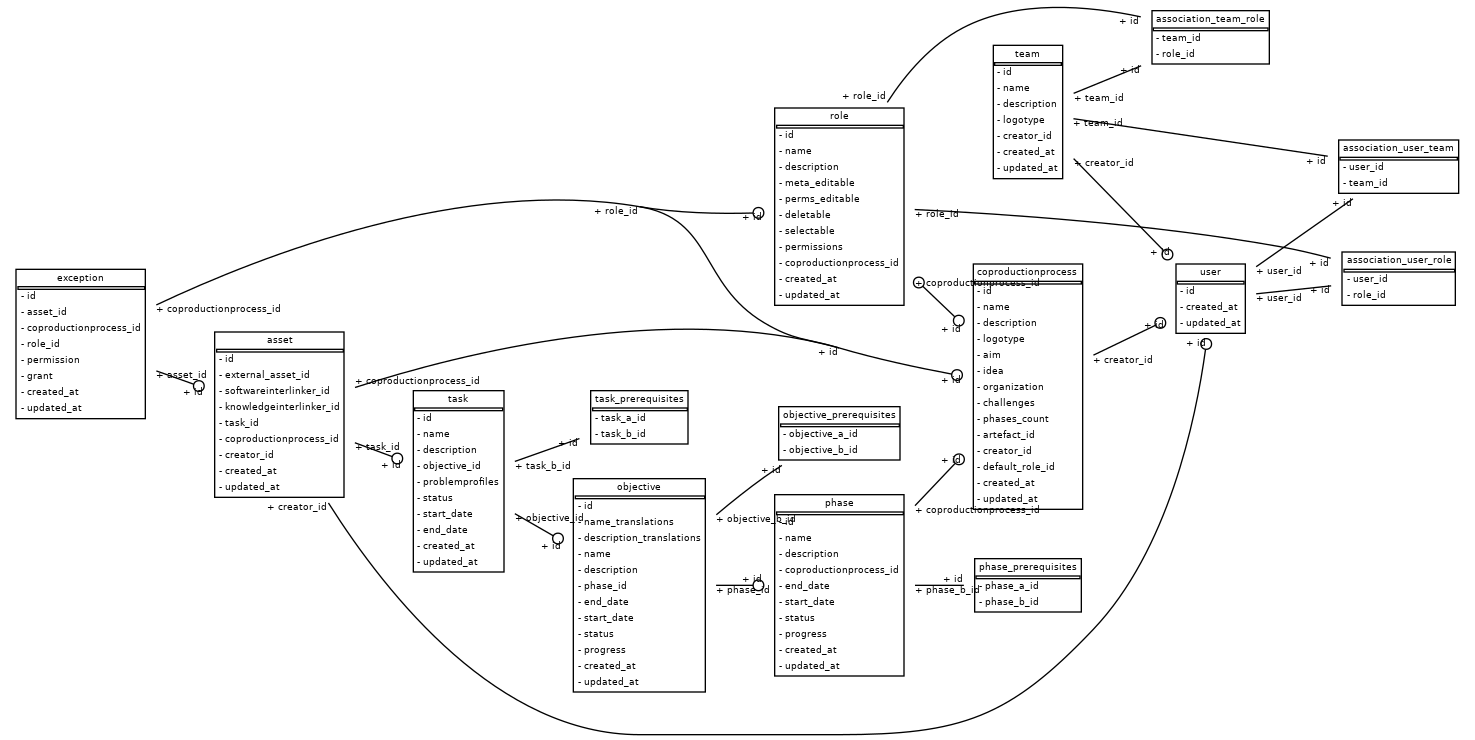
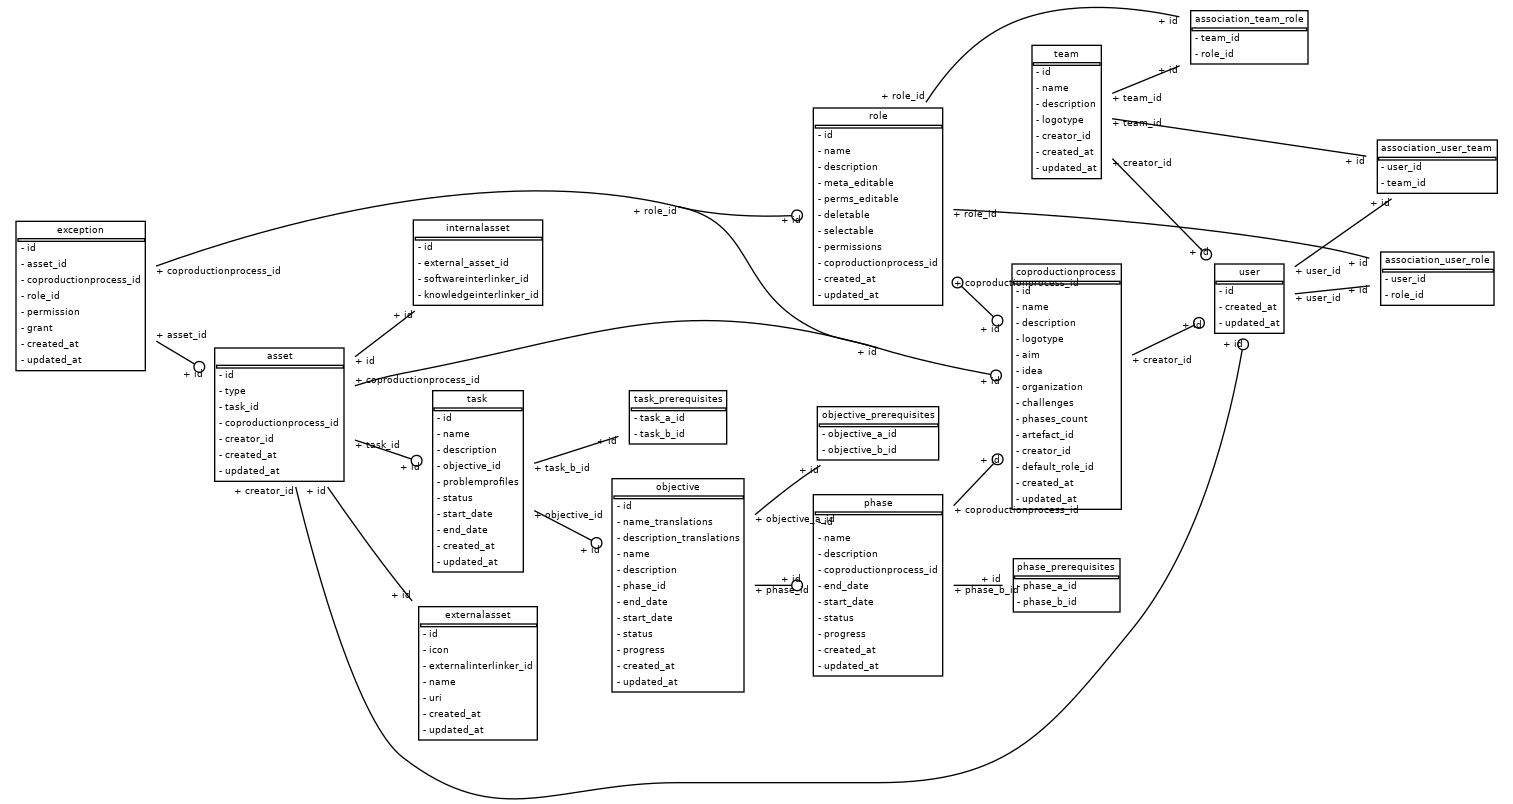
Asset polimorphic

diff --git a/coproduction/app/assets/schemas.py b/coproduction/app/assets/schemas.py
@@ -1,24 +1,52 @@
 import uuid
 from datetime import datetime
-from typing import List, Optional
+from typing import Dict, List, Literal, Optional, Union
+
+from pydantic import BaseModel, Field, validator
+from typing_extensions import Annotated
 
 from app.general.utils.AllOptional import AllOptional
-from pydantic import BaseModel
 
-class AssetBase(BaseModel):
+
+class BaseAssetBase(BaseModel):
     task_id: Optional[uuid.UUID]
+    coproductionprocess_id: Optional[uuid.UUID]
+
+class BaseAssetCreate(BaseAssetBase):
+    pass
+
+class BaseAssetPatch(BaseAssetCreate, metaclass=AllOptional):
+    pass
+
+
+class BaseAsset(BaseAssetBase):
+    id: uuid.UUID
+    created_at: datetime
+    updated_at: Optional[datetime]
+    
+    class Config:
+        orm_mode = True
+
+
+class BaseAssetOut(BaseAssetBase):
+    pass
+
+# Internal asset
+
+class InternalAssetBase(BaseAssetBase):
+    type: Literal["internalasset"] = "internalasset"
     softwareinterlinker_id: uuid.UUID
     knowledgeinterlinker_id: Optional[uuid.UUID]
     external_asset_id: str
     
-class AssetCreate(AssetBase):
+class InternalAssetCreate(BaseAssetCreate, InternalAssetBase):
     pass
 
-class AssetPatch(AssetBase, metaclass=AllOptional):
+class InternalAssetPatch(BaseAssetPatch, InternalAssetCreate, metaclass=AllOptional):
     pass
 
 
-class Asset(AssetBase):
+class InternalAsset(InternalAssetBase):
     id: uuid.UUID
     created_at: datetime
     updated_at: Optional[datetime]
@@ -29,5 +57,52 @@ class Asset(AssetBase):
         orm_mode = True
 
 
-class AssetOut(Asset):
+class InternalAssetOut(BaseAssetOut, InternalAsset):
     link: str
+
+
+# External asset
+
+class ExternalAssetBase(BaseAssetBase):
+    type: Literal["externalasset"] = "externalasset"
+    externalinterlinker_id: uuid.UUID
+    name: str
+    uri: str
+    
+class ExternalAssetCreate(BaseAssetCreate, ExternalAssetBase):
+    pass
+
+class ExternalAssetPatch(BaseAssetPatch, ExternalAssetCreate, metaclass=AllOptional):
+    pass
+
+
+class ExternalAsset(ExternalAssetBase):
+    id: uuid.UUID
+    created_at: datetime
+    updated_at: Optional[datetime]
+    
+    class Config:
+        orm_mode = True
+
+
+class ExternalAssetOut(BaseAssetOut, ExternalAsset):
+    pass
+
+
+
+AssetCreate = Annotated[
+    Union[ExternalAssetCreate, InternalAssetCreate],
+    Field(discriminator="type"),
+]
+
+AssetPatch = Annotated[
+    Union[ExternalAssetPatch, InternalAssetPatch],
+    Field(discriminator="type"),
+]
+
+
+class AssetOut(BaseModel):
+    __root__: Annotated[
+        Union[ExternalAssetOut, InternalAssetOut],
+        Field(discriminator="type"),
+    ]

diff --git a/coproduction/app/assets/crud.py b/coproduction/app/assets/crud.py
@@ -1,12 +1,13 @@
 from sqlalchemy.orm import Session
 from typing import List
-from app.models import Asset
-from app.schemas import AssetCreate, AssetPatch
+from app.models import Asset, InternalAsset, ExternalAsset
+from app.schemas import AssetCreate, AssetPatch, ExternalAssetCreate, InternalAssetCreate
 from app.general.utils.CRUDBase import CRUDBase
 from app import models
 import uuid
 from fastapi_pagination.ext.sqlalchemy import paginate
 from app.messages import log
+from fastapi.encoders import jsonable_encoder
 
 class CRUDAsset(CRUDBase[Asset, AssetCreate, AssetPatch]):
 
@@ -28,21 +29,25 @@ class CRUDAsset(CRUDBase[Asset, AssetCreate, AssetPatch]):
         return paginate(db.query(Asset).filter(*queries))
     
     async def create(self, db: Session, asset: AssetCreate, coproductionprocess_id: uuid.UUID, creator: models.User) -> Asset:
-        db_obj = Asset(
-            coproductionprocess_id=coproductionprocess_id,
-            task_id=asset.task_id,
-            knowledgeinterlinker_id=asset.knowledgeinterlinker_id,
-            softwareinterlinker_id=asset.softwareinterlinker_id,
-            external_asset_id=asset.external_asset_id,
-            creator=creator
-        )
+        data = jsonable_encoder(asset)
+        if type(asset) == ExternalAssetCreate:
+            print("IS EXTERNAL")
+            data["type"] = "externalasset"
+            db_obj = ExternalAsset(**data)
+
+        if type(asset) == InternalAssetCreate:
+            print("IS INTERNAL")
+            data["type"] = "internalasset"
+            db_obj = InternalAsset(**data)
+
         db.add(db_obj)
         db.commit()
         await log({
             "model": self.modelName,
             "action": "CREATE",
+            "id": db_obj.id,
             "coproductionprocess_id": coproductionprocess_id,
-            "task_id": db_obj.id
+            "task_id": db_obj.task.id
         })
         db.refresh(db_obj)
         db_obj.set_links()

diff --git a/coproduction/app/assets/models.py b/coproduction/app/assets/models.py
@@ -23,10 +23,8 @@ from app.general.db.base_class import Base as BaseModel
 
 class Asset(BaseModel):
     id = Column(UUID(as_uuid=True), primary_key=True, default=uuid.uuid4)
-    external_asset_id = Column(String)
-    softwareinterlinker_id = Column(UUID(as_uuid=True))
-    # save from which knowledge interlinker has been cloned, if so
-    knowledgeinterlinker_id = Column(UUID(as_uuid=True), nullable=True)
+    # discriminator
+    type = Column(String)
 
     task_id = Column(
         UUID(as_uuid=True), ForeignKey("task.id", ondelete='CASCADE')
@@ -45,6 +43,27 @@ class Asset(BaseModel):
         String, ForeignKey("user.id")
     )
     creator = orm.relationship("User", back_populates="created_assets")
+
+    __mapper_args__ = {
+        "polymorphic_identity": "asset",
+        "polymorphic_on": type,
+    }
+
+class InternalAsset(Asset):
+    id = Column(
+        UUID(as_uuid=True),
+        ForeignKey("asset.id"),
+        primary_key=True,
+        default=uuid.uuid4,
+    )
+    external_asset_id = Column(String)
+    softwareinterlinker_id = Column(UUID(as_uuid=True))
+    # save from which knowledge interlinker has been cloned, if so
+    knowledgeinterlinker_id = Column(UUID(as_uuid=True), nullable=True)
+
+    __mapper_args__ = {
+        "polymorphic_identity": "internalasset",
+    }
 
     def set_links(self):
         response = requests.get(
@@ -91,3 +110,20 @@ class Asset(BaseModel):
     @property
     def internal_link(self):
         return self.int_link
+
+class ExternalAsset(BaseModel):
+    id = Column(
+        UUID(as_uuid=True),
+        ForeignKey("asset.id"),
+        primary_key=True,
+        default=uuid.uuid4,
+    )
+    name = Column(String)
+    icon = Column(String)
+    externalinterlinker_id = Column(UUID(as_uuid=True))
+    name = Column(String)
+    uri = Column(String)
+    
+    __mapper_args__ = {
+        "polymorphic_identity": "externalasset",
+    }

diff --git a/coproduction/app/api/api_v1/assets.py b/coproduction/app/api/api_v1/assets.py
@@ -51,13 +51,16 @@ async def create_asset(
 
     # check that interlinker in catalogue
     try:
-        response = requests.get(f"http://{settings.CATALOGUE_SERVICE}/api/v1/interlinkers/{asset_in.softwareinterlinker_id}", headers={
+        interlinker_id = asset_in.softwareinterlinker_id or asset_in.externalinterlinker_id
+        print("CREATING WITH ", interlinker_id)
+        response = requests.get(f"http://{settings.CATALOGUE_SERVICE}/api/v1/interlinkers/{interlinker_id}", headers={
             "X-API-Key": "secret"
         })
+        print("CREATING WITH ", response.json())
         assert response.status_code == 200
 
     except:
-        raise HTTPException(status_code=400, detail="Interlinker not active")
+        raise HTTPException(status_code=400, detail="Interlinker not found")
 
     asset = await crud.asset.create(
         db=db, asset=asset_in, coproductionprocess_id=task.objective.phase.coproductionprocess_id, creator=current_user)
@@ -143,8 +146,8 @@ async def read_asset(
         return asset
     raise HTTPException(status_code=404, detail="Asset not found")
 
-@router.get("/external/{id}")
-async def read_external_asset(
+@router.get("/internal/{id}")
+async def read_internal_asset(
     *,
     db: Session = Depends(deps.get_db),
     id: uuid.UUID,
@@ -155,7 +158,7 @@ async def read_external_asset(
     """
     
     if asset := await crud.asset.get(db=db, id=id):
-        print("Retrieving external ", asset.link)
+        print("Retrieving internal ", asset.link)
         try:
             return requests.get(asset.internal_link, headers={
                 "Authorization": "Bearer " + token
